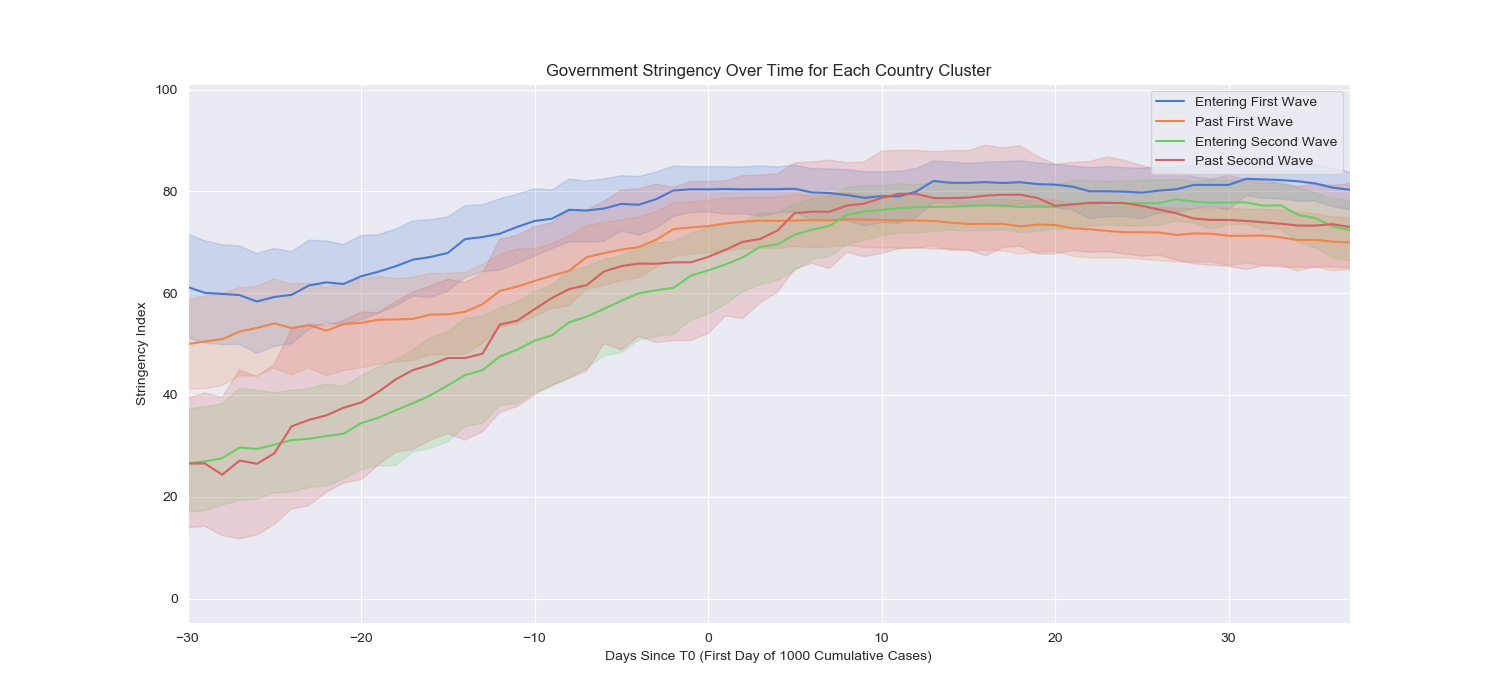
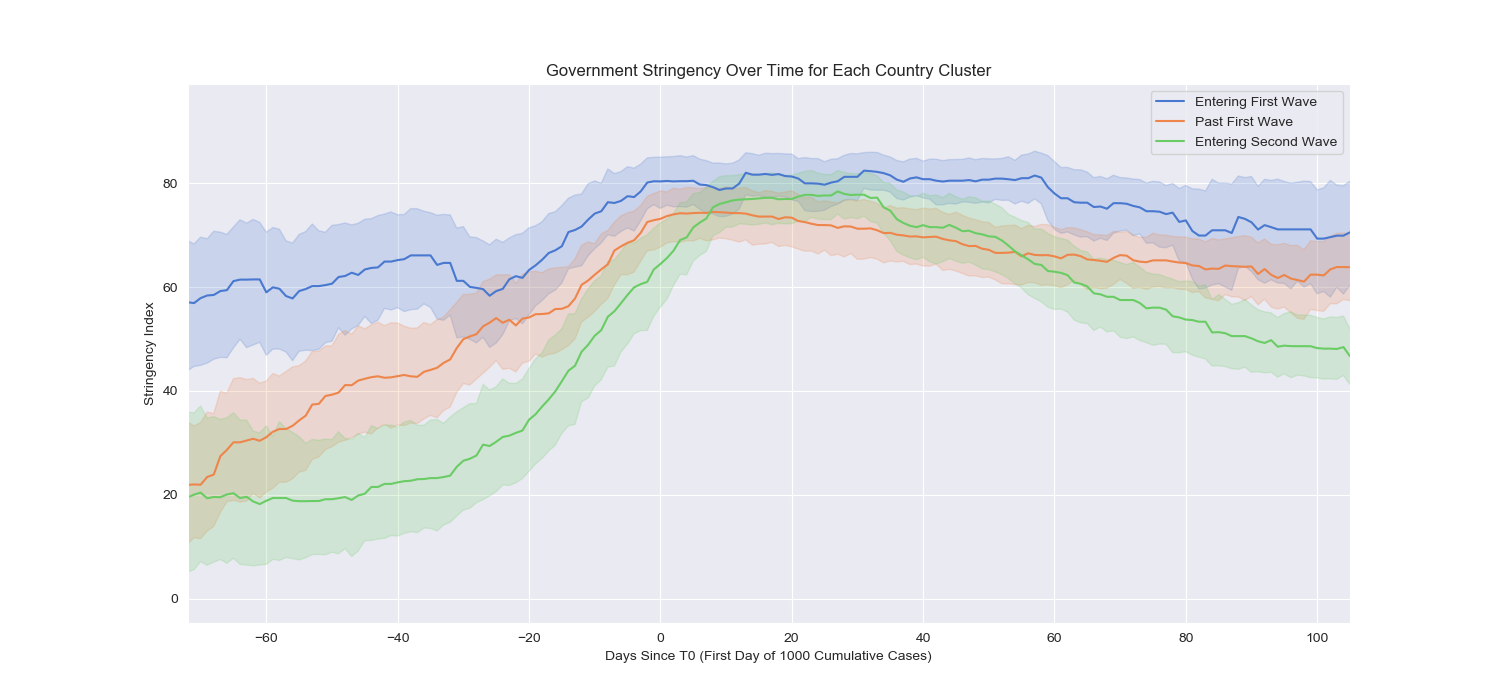
Minor updates to figure 2

diff --git a/generate_plots.py b/generate_plots.py
@@ -45,7 +45,7 @@ FIGURE 2 - Stringency Index by Class
 figure_2 = pd.read_csv(LOAD_DATA_PATH + 'figure_2.csv', index_col = 0)
 
 # Set plot parameters
-xlim_thresold = 0.9     # Plot will crop the x axis to only show t values with >=threshold proportion of countries present.
+xlim_thresold = 0.6     # Plot will crop the x axis to only show t values with >=threshold proportion of countries present.
 T0_threshold = 1000     # Number of total cases used to define T0. Must be set to the same value as used in generate_table.
 
 # Class labels to use in title
@@ -58,11 +58,10 @@ class_labels = {0: 'Other',
 for c in class_labels:
     figure_2.loc[figure_2['CLASS']==c,'CLASS']=class_labels[c]
     
-# Classes to include in the plot. Past second is currently excluded due to the low sample size.
+# Classes to include in the plot. Past second wave is currently excluded due to the low sample size.
 include_class = ['Entering First Wave',
                  'Past First Wave',
-                 'Entering Second Wave',
-                 'Past Second Wave']
+                 'Entering Second Wave']
 
 # Set plot dimensions and style
 plt.clf()
@@ -76,9 +75,9 @@ g = sns.lineplot(x = 't', y ='stringency_index', data=figure_2[figure_2['CLASS']
                  hue = 'CLASS', hue_order=include_class)
 
 # Restrict the date range: keep only t values with at least x% of the countries present
-ns = {t:len(figure_2.loc[figure_2['t']==t,'stringency_index'].dropna())
-      for t in figure_2['t'].unique()}
-ns = [t for t in ns.keys() if ns[t] >= xlim_thresold*len(figure_2['COUNTRYCODE'].unique())]
+ns = {t:len(figure_2.loc[(figure_2['CLASS'].isin(include_class))&(figure_2['t']==t),'stringency_index'].dropna())
+      for t in figure_2.loc[figure_2['CLASS'].isin(include_class),'t'].unique()}
+ns = [t for t in ns.keys() if ns[t] >= xlim_thresold*len(figure_2.loc[figure_2['CLASS'].isin(include_class),'COUNTRYCODE'].unique())]
 t_lower_lim = min(ns)
 t_upper_lim = max(ns)
 g.set(xlim=(t_lower_lim, t_upper_lim))
